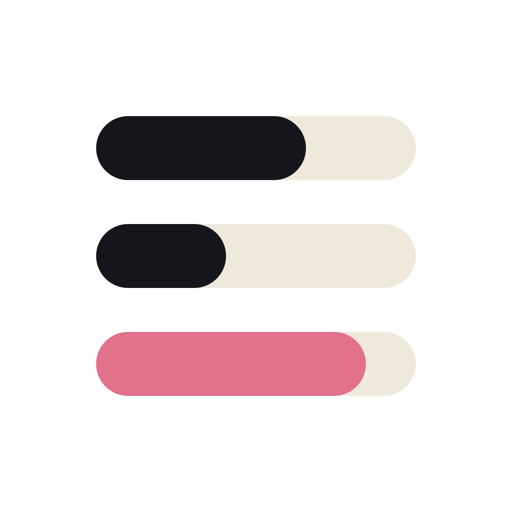
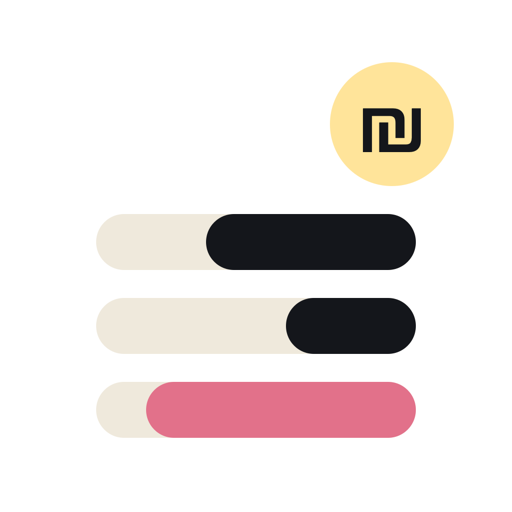
אזהרת מינוס בהפקדה, סיכום חודש קודם, אייקון חדש עם ש״ח

diff --git a/app.js b/app.js
@@ -51,7 +51,7 @@ const S = {
   screen: 'home', detailKey: null, sheet: null,
   order: LS.get('order', { g: {}, i: {} }), tags: LS.get('tags', {}),
   pending: LS.get('pending', []), lastSync: LS.get('lastSync', null),
-  eomRules: LS.get('eomRules', {}), decisions: LS.get('decisions', {}), deposits: LS.get('deposits', {}), ym: 0, curYm: 0, locked: LS.get('locked', false), lockStage: 'welcome', pinEntry: '', pinMsg: '', pinFail: 0, pinUntil: 0, pinSetup: null, prefsTs: LS.get('prefsTs', 0), q: '', eq: '', error: null, loading: false, status: null, budgetCfg: null, preview: false, needAuth: false
+  eomRules: LS.get('eomRules', {}), decisions: LS.get('decisions', {}), deposits: LS.get('deposits', {}), ym: 0, curYm: 0, firstMonth: 0, locked: LS.get('locked', false), lockStage: 'welcome', pinEntry: '', pinMsg: '', pinFail: 0, pinUntil: 0, pinSetup: null, prefsTs: LS.get('prefsTs', 0), q: '', eq: '', error: null, loading: false, status: null, budgetCfg: null, preview: false, needAuth: false
 };
 const isLive = () => !!S.cfg.sheetId;
 // מצב הדגמה קיים רק לפיתוח ולעיצוב (כתובת עם ?demo). משתמשת רגילה חייבת להתחבר לגיליון.
@@ -73,7 +73,7 @@ const Demo = {
         return o;
       })
     }));
-    return { ok: true, month: mo, ym: 202600 + mo, currentYm: 202600 + cm, startDay: sd, currentMonth: cm, currentWeek: weekIdx(now, sd, cm), fixed: mk(this.snap.fixed, false), variable: mk(this.snap.variable, true) };
+    return { ok: true, month: mo, ym: 202600 + mo, currentYm: 202600 + cm, firstMonth: 1, startDay: sd, currentMonth: cm, currentWeek: weekIdx(now, sd, cm), fixed: mk(this.snap.fixed, false), variable: mk(this.snap.variable, true) };
   }
 };
 
@@ -217,7 +217,7 @@ async function pickSheet() {
 }
 
 function applyBudget(b) {
-  S.ym = b.ym || 0; S.curYm = b.currentYm || 0; S.month = b.month; S.startDay = b.startDay; S.current = { month: b.currentMonth, week: b.currentWeek };
+  S.ym = b.ym || 0; S.curYm = b.currentYm || 0; S.firstMonth = b.firstMonth || 0; S.month = b.month; S.startDay = b.startDay; S.current = { month: b.currentMonth, week: b.currentWeek };
   S.data = { fixed: b.fixed, variable: b.variable };
   S.preview = b.budgetFrozen === false;   // חודש עתידי: תצוגה מקדימה של התקציב
 }
@@ -349,7 +349,7 @@ function home() {
   <div id="tabs" ${S.q.trim() ? 'hidden' : ''}>
   <div class="seg"><button data-act="tab" data-v="var" class="${isVar ? 'on' : ''}">שוטפות</button><button data-act="tab" data-v="fixed" class="${!isVar ? 'on' : ''}">קבועות</button></div>
   ${isVar ? `<div class="seg sm"><button data-act="period" data-v="week" class="${S.period === 'week' ? 'on' : ''}" ${cur ? '' : 'disabled'}>שבוע</button><button data-act="period" data-v="month" class="${S.period === 'month' || !cur ? 'on' : ''}">חודש</button></div>` : ''}
-  <div class="bu2"><span>תקציב ${isVar ? 'שוטפות' : 'קבועות'} <b class="num">${fmt(total)}</b>${S.preview ? ' · תצוגה מקדימה' : ''}</span>${showSummary() ? `<button class="lnkp" data-act="summary">סיכום חודש ${icon('arrow-left-s')}</button>` : ''}</div>
+  <div class="bu2"><span>תקציב ${isVar ? 'שוטפות' : 'קבועות'} <b class="num">${fmt(total)}</b>${S.preview ? ' · תצוגה מקדימה' : ''}</span>${showSummary() === 'now' ? `<button class="lnkp" data-act="summary">סיכום ${S.curYm && S.ym < S.curYm ? (MONTHS[S.month - 1] || 'חודש') : 'חודש'} ${icon('arrow-left-s')}</button>` : showSummary() === 'prev' ? `<button class="lnkp" data-act="summaryPrev">סיכום חודש קודם ${icon('arrow-left-s')}</button>` : ''}</div>
   </div>
   <div class="cats" id="cats">${catsHtml()}</div>
   ${nav()}`;
@@ -382,9 +382,10 @@ function detail() {
   <div class="dh"><button class="gb" data-act="back" aria-label="חזרה">${icon('arrow-right-s')}</button></div>
   <div class="dt" style="--c:${gi.c}"><span class="ci">${icon(gi.i)}</span><div><b>${esc(item.name)}</b><span>${esc(group)} · ${MONTHS[S.month - 1]}</span></div></div>
   <div class="card dcard" style="--c:${gi.c}">
-    <div class="dtop"><span class="ico">${icon('hand-coin')}</span><div><small>הוצאתי החודש</small><b class="big num">${fmt(item.spent)}</b></div><span class="pct ${v.st === 'over' ? 'over' : ''}">${Math.round(eff > 0 ? item.spent / eff * 100 : (item.spent > 0 ? 100 : 0))}%</span></div>
+    <div class="dtop"><span class="ico">${icon('wallet-3')}</span><div><small>הוצאתי החודש</small><b class="big num">${fmt(item.spent)}</b></div><span class="pct ${v.st === 'over' ? 'over' : ''}">${Math.round(eff > 0 ? item.spent / eff * 100 : (item.spent > 0 ? 100 : 0))}%</span></div>
     <div class="ln thick"><i style="width:${Math.min(100, eff > 0 ? item.spent / eff * 100 : (item.spent > 0 ? 100 : 0))}%;background:${v.st === 'over' ? 'var(--pink)' : 'var(--ink)'}"></i></div>
     ${item.carry ? `<p class="cx">${item.carry > 0 ? `נשארו ${fmt(item.carry)} מהחודש הקודם, והם התווספו לתקציב החודש.` : `היה חוסר של ${fmt(-item.carry)} בחודש הקודם, והוא הופחת מהתקציב החודש.`}</p>` : ''}
+    ${left < 0 && ruleFor(item.key) === 'aside' ? '<p class="cx neg">הסעיף במינוס, ולכן אי אפשר להפקיד. ההפקדה תחכה עד שיהיה פלוס.</p>' : ''}
     <div class="dstats ${item.carry ? 'c3' : ''}"><div><small>התקציב</small><b class="num">${fmt(item.budget)}</b></div>${item.carry ? `<div><small>מגולגל</small><b class="num">${item.carry > 0 ? '+' : '−'}${fmt(Math.abs(item.carry)).replace('−', '')}</b></div>` : ''}${left >= 0 ? `<div><small>נשאר</small><b class="num">${fmt(left)}</b></div>` : `<div class="ov"><small>חריגה</small><b class="num">${fmt(-left)}</b></div>`}</div>
     ${v.st === 'warn' ? '<div class="al amb" style="margin-top:12px">מתקרבת לתקרה</div>' : ''}</div>
   ${tagRows.length ? `<div class="secl">לפי תגית</div><div class="tgl">${tagRows.map(([t, a]) => `<div class="tr"><div><span>${esc(t)}</span><span class="tp2"><b class="num">${fmt(a)}</b><em>${Math.round(item.spent > 0 ? a / item.spent * 100 : 0)}%</em></span></div><div class="ln"><i style="width:${a / mx * 100}%"></i></div></div>`).join('')}</div>` : ''}
@@ -398,7 +399,7 @@ function detail() {
 const EOM = { carry: 'לגלגל לחודש הבא', aside: 'לשים בצד', ask: 'לשאול' };
 const EOM_HELP = [
   ['לגלגל לחודש הבא', 'היתרה עוברת לתקציב החודש הבא.'],
-  ['לשים בצד', 'היתרה מועברת לחשבון נפרד.'],
+  ['לשים בצד', 'היתרה מועברת לחשבון נפרד. אם הסעיף במינוס אי אפשר להפקיד, והחוסר מתגלגל עד שיהיה פלוס.'],
   ['לשאול', 'בסוף החודש האפליקציה שואלת מה לעשות.']
 ];
 const eomRule = k => { const v = S.eomRules[k]; return v === 'box' ? 'aside' : v === 'part' ? 'ask' : EOM[v] ? v : ''; };   // ערכים מגרסאות קודמות
@@ -407,10 +408,12 @@ const ruleFor = key => (S.decisions[S.ym] && S.decisions[S.ym][key]) || eomRule(
 const nowDay = () => { const d = new Date(), p = n => String(n).padStart(2, '0'); return d.getDate() + '/' + (d.getMonth() + 1); };
 /* סיכום החודש מופיע רק ביום האחרון של החודש הפיננסי (בהדגמה תמיד, לבדיקה) */
 function showSummary() {
-  if (DEV && !isLive()) return true;
+  if (DEV && !isLive()) return 'now';
+  if (S.curYm && S.ym < S.curYm) return 'now';                       // חודש שעבר: אפשר לסמן הפקדות
   if (S.month !== S.current.month) return false;
   const t = new Date(), tm = new Date(t.getFullYear(), t.getMonth(), t.getDate() + 1);
-  return finMonth(tm, S.startDay || 1) !== finMonth(t, S.startDay || 1);
+  if (finMonth(tm, S.startDay || 1) !== finMonth(t, S.startDay || 1)) return 'now';   // היום האחרון של החודש
+  return S.month !== S.firstMonth ? 'prev' : false;                   // בשאר הימים: סיכום החודש הקודם (ההפקדות נעשות אחרי המשכורת)
 }
 function summaryRows() {
   const rows = [];
@@ -425,6 +428,7 @@ function summaryScreen() {
   const unspent = notAside.reduce((a, r) => a + left(r), 0);
   const asideRows = rows.filter(r => r.rule === 'aside' && left(r) > 0.005);
   const askRows = rows.filter(r => r.rule === 'ask' && left(r) > 0.005);   // רק מי שבחרת עבורו "לשאול"
+  const negAside = rows.filter(r => (r.rule === 'aside') && left(r) < -0.005);
   const carryRows = rows.filter(r => Math.abs(left(r)) > 0.005 && (r.rule === 'carry' || ((r.rule === 'aside' || r.rule === 'ask') && left(r) < 0)));   // חוסר בסעיף שלשים בצד מתגלגל, כי אי אפשר להפקיד מינוס
   const done = S.curYm && S.ym < S.curYm;
   const amt = n => `<b class="num">${fmt(Math.abs(n))}</b>`;
@@ -442,7 +446,8 @@ function summaryScreen() {
   </div>
   <div class="sleft"><small>נשאר כסף שהיה אמור להיות מוצא ולא הוצא</small><b class="num">${fmt(dep._all ? dep._all.amt : unspent)}</b><span>ב-${notAside.length} קטגוריות · לא כולל מה שמופקד בצד</span>
     <div class="sact">${dep._all ? `<button class="chk on" data-act="undepo" data-k="_all" aria-label="ביטול סימון">${icon('check')} הופקד · ${esc(dep._all.day)}</button>` : unspent > 0.005 ? `<button class="chk" data-act="depo" data-k="_all" data-v="${Math.round(unspent * 100) / 100}">${icon('checkbox-blank-circle')} הפקדתי את זה</button>` : ''}</div></div></div></section>
-  ${sec('להפקיד בצד', asideRows, depRow, 'אחרי שהפקדת בפועל, סמני "הפקדתי".')}
+  ${sec('להפקיד בצד', asideRows, depRow, 'אפשר לסמן גם בחודש הבא, אחרי שנכנסת המשכורת.')}
+  ${sec('במינוס: אי אפשר להפקיד', negAside, carryRow, 'הסעיפים האלה במינוס. אי אפשר להפקיד מינוס, אז החוסר מתגלגל לחודש הבא וההפקדה תחכה עד שיהיה פלוס.')}
   ${sec('צריך להחליט', askRows, askRow, 'מה לעשות עם מה שנשאר בסעיפים האלה.')}
   ${sec('מתגלגל לחודש הבא', carryRows, carryRow, '')}
   ${over.length ? `<div class="secl">חרגו מהתקציב</div><section class="sc2 eg sr">${over.map(r => `<div class="er"><span class="en2">${esc(r.name)}<small class="ea">${esc(r.group)}</small></span><b class="num neg">${fmt(-left(r))}</b></div>`).join('')}</section>` : ''}
@@ -753,6 +758,7 @@ async function act(a, t) {
       if (isLive() && Auth.valid()) { try { S.budgetCfg = await call('settings'); render(); } catch (err) { if (err.code === 'auth') { S.needAuth = true; render(); } else toast('לא הצלחתי לטעון הגדרות: ' + err.message); } }
       break;
     case 'summary': S.screen = 'summary'; window.scrollTo(0, 0); render(); break;
+    case 'summaryPrev': await load(S.month === 1 ? 12 : S.month - 1); S.screen = 'summary'; window.scrollTo(0, 0); render(); break;
     case 'depo': { (S.deposits[S.ym] = S.deposits[S.ym] || {})[k] = { amt: Number(v), day: nowDay(), at: Date.now() }; LS.set('deposits', S.deposits); touchPrefs(); render(); break; }
     case 'undepo': if (S.deposits[S.ym]) { delete S.deposits[S.ym][k]; LS.set('deposits', S.deposits); touchPrefs(); render(); } break;
     case 'decide': (S.decisions[S.ym] = S.decisions[S.ym] || {})[k] = v; LS.set('decisions', S.decisions); touchPrefs(); reloadSoon(); render(); break;

diff --git a/sw.js b/sw.js
@@ -1,5 +1,5 @@
 // רשת קודם, ואז מטמון: כך שבזמן הפיתוח תמיד רואים את הגרסה העדכנית, ובלי אינטרנט האפליקציה עדיין נפתחת.
-const CACHE='expenses-v3';
+const CACHE='expenses-v4';
 const SHELL=['./','index.html','app.css','app.js','bridge.js','config.js','icon.svg','apple-touch-icon.png','icon-192.png','icon-512.png'];
 self.addEventListener('install',e=>{e.waitUntil(caches.open(CACHE).then(c=>c.addAll(SHELL)).then(()=>self.skipWaiting()))});
 self.addEventListener('activate',e=>{e.waitUntil(caches.keys().then(k=>Promise.all(k.filter(x=>x!==CACHE).map(x=>caches.delete(x)))).then(()=>self.clients.claim()))});

diff --git a/bridge.js b/bridge.js
@@ -304,7 +304,7 @@
       });
       return groups;
     }
-    return { ok: true, month: mo, ym: ym, currentYm: curYm(mod), startDay: mod.startDay, currentMonth: curMonth, currentWeek: weekIdx(now, mod.startDay, curMonth), budgetColumn: b.col, budgetFrozen: b.frozen,
+    return { ok: true, month: mo, ym: ym, currentYm: curYm(mod), firstMonth: monthOrder(mod)[0] || 1, startDay: mod.startDay, currentMonth: curMonth, currentWeek: weekIdx(now, mod.startDay, curMonth), budgetColumn: b.col, budgetFrozen: b.frozen,
       fixed: group(mod.fixed.list, b.fixed, fa, false, cr.fixed), variable: group(mod.variable.list, b.variable, va, true, cr.variable) };
   }
 
